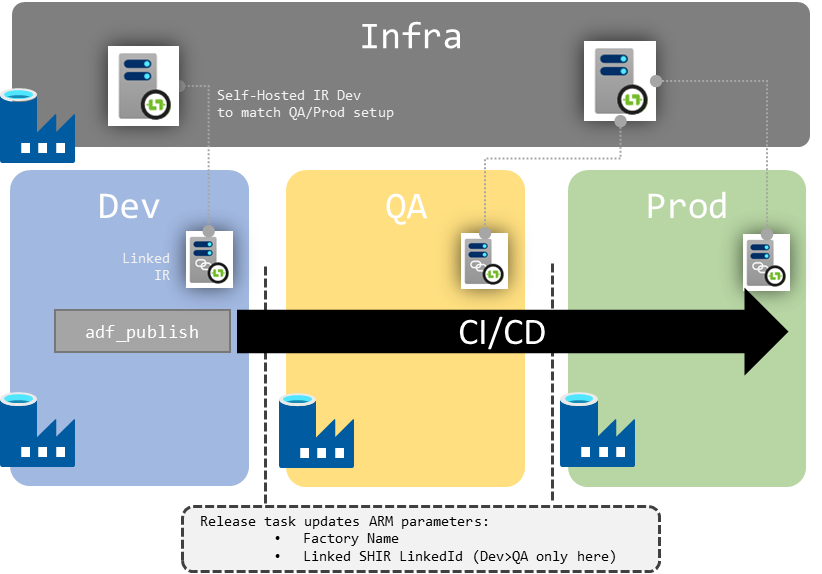
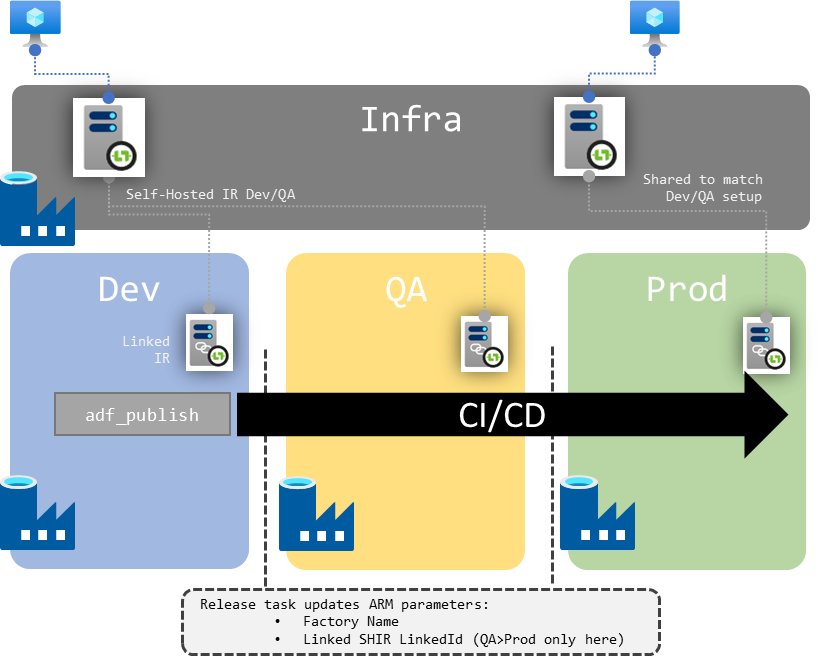
Update schemas with VM

diff --git a/_posts/2020-05-28-adf-devops.md b/_posts/2020-05-28-adf-devops.md
@@ -93,16 +93,19 @@ Let's illustrate that with a couple of examples, using **ARM Templates deploymen
 The most basic deployment will support a team working on a single project/repo, sharing a single managed identity (or not using the managed identity at all but sharing credentials anyway), and mostly debugging.
 
 ![Schema of 1 repo for 1 project, shared authentication, debug only setup](https://raw.githubusercontent.com/Fleid/fleid.github.io/master/_posts/202005_adf_devops/instances_shared_debug.png)
+
 *[Figure 2 : Schema of 1 repo for 1 project, shared authentication, debug only setup](https://raw.githubusercontent.com/Fleid/fleid.github.io/master/_posts/202005_adf_devops/instances_shared_debug.png)*
 
 After some time, that team realizes that triggering runs in development means polluting the CI/CD pipeline with code that may not be ready to be released. A way to solve that is to put a release factory instance between the dev and QA ones.
 
 ![Schema of 1 repo for 1 project, shared authentication, triggers enabled](https://raw.githubusercontent.com/Fleid/fleid.github.io/master/_posts/202005_adf_devops/instances_shared_triggers.png)
+
 *[Figure 3 : Schema of 1 repo for 1 project, shared authentication, triggers enabled](https://raw.githubusercontent.com/Fleid/fleid.github.io/master/_posts/202005_adf_devops/instances_shared_triggers.png)*
 
 Switching to another team, that requires individual managed identities for each developer.
 
 ![Schema of 1 repo for 1 project, individual authentication](https://raw.githubusercontent.com/Fleid/fleid.github.io/master/_posts/202005_adf_devops/instances_each_triggers.png)
+
 *[Figure 4 : Schema of 1 repo for 1 project, individual authentication](https://raw.githubusercontent.com/Fleid/fleid.github.io/master/_posts/202005_adf_devops/instances_each_triggers.png)*
 
 We can see that the branching strategy we choose has a deep impact on the overall setup. Above, `master` is protected from the current release work, we can regenerate release candidates or feature branches from it in case anything goes wrong.
@@ -125,25 +128,35 @@ When we have **only one development factory instance**, the only dimension we ha
 
 If we want each environment to have its own dedicated SHIR (so 3 environments means 3 distinct agents, installed on 3 distinct machines), then we must only make sure that they share the same name. Then the minimalist JSON definition will go through the release pipeline untouched.
 
+Each factory will have to go through the process of registering its own SHIR, since the underlying wiring still needs to happen.
+
 ![Schema of one SHIR per environment for a single dev factory instance](https://raw.githubusercontent.com/Fleid/fleid.github.io/master/_posts/202005_adf_devops/shir_single_dedicated.png)
+
 *[Figure 5 : Schema of one SHIR per environment for a single dev factory instance](https://raw.githubusercontent.com/Fleid/fleid.github.io/master/_posts/202005_adf_devops/shir_single_dedicated.png)*
 
 Now if we want to re-use SHIR across environments, we need to switch to **shared mode across the board**. It's easier to do so than to mix shared and dedicated, since the JSON definition structure is different, and would require some scripting to be altered in the release pipeline.
 
 We can deploy the shared SHIR in one or multiple infrastructure factory instances (used only to host those, separated from project code). The release pipeline will update the SHIR LinkedId property to point to the right SHIR when moving through environments.
 
+Here also, each factory will have to go through the process of linking the SHIR, since the underlying wiring still needs to happen.
+
 ![Schema of shared SHIR across environments for a single dev factory instance](https://raw.githubusercontent.com/Fleid/fleid.github.io/master/_posts/202005_adf_devops/shir_single_shared.png)
+
 *[Figure 6 : Schema of shared SHIR across environments for a single dev factory instance](https://raw.githubusercontent.com/Fleid/fleid.github.io/master/_posts/202005_adf_devops/shir_single_shared.png)*
 
-We will use the same patterns when supporting multiple factory instances in development.
+I expect most deployments to use different SHIR across environments (production isolation)
 
 ### SHIR for multiple factory instance setup
 
-When we have **multiple development factory instances**, we will have to share SHIR both across them and environments.
+We will have similar options when addressing **multiple development factory instances**: provision a SHIR for each factory in the development scope and each environment, or share them across the board from an infrastructure factory(ies).
+
+
 
 ### Azure Key Vault
 
 [Azure Key Vault](https://docs.microsoft.com/en-us/azure/data-factory/how-to-use-azure-key-vault-secrets-pipeline-activities)
+
+### SHIR + AKV
 
 ## Conclusion
 
